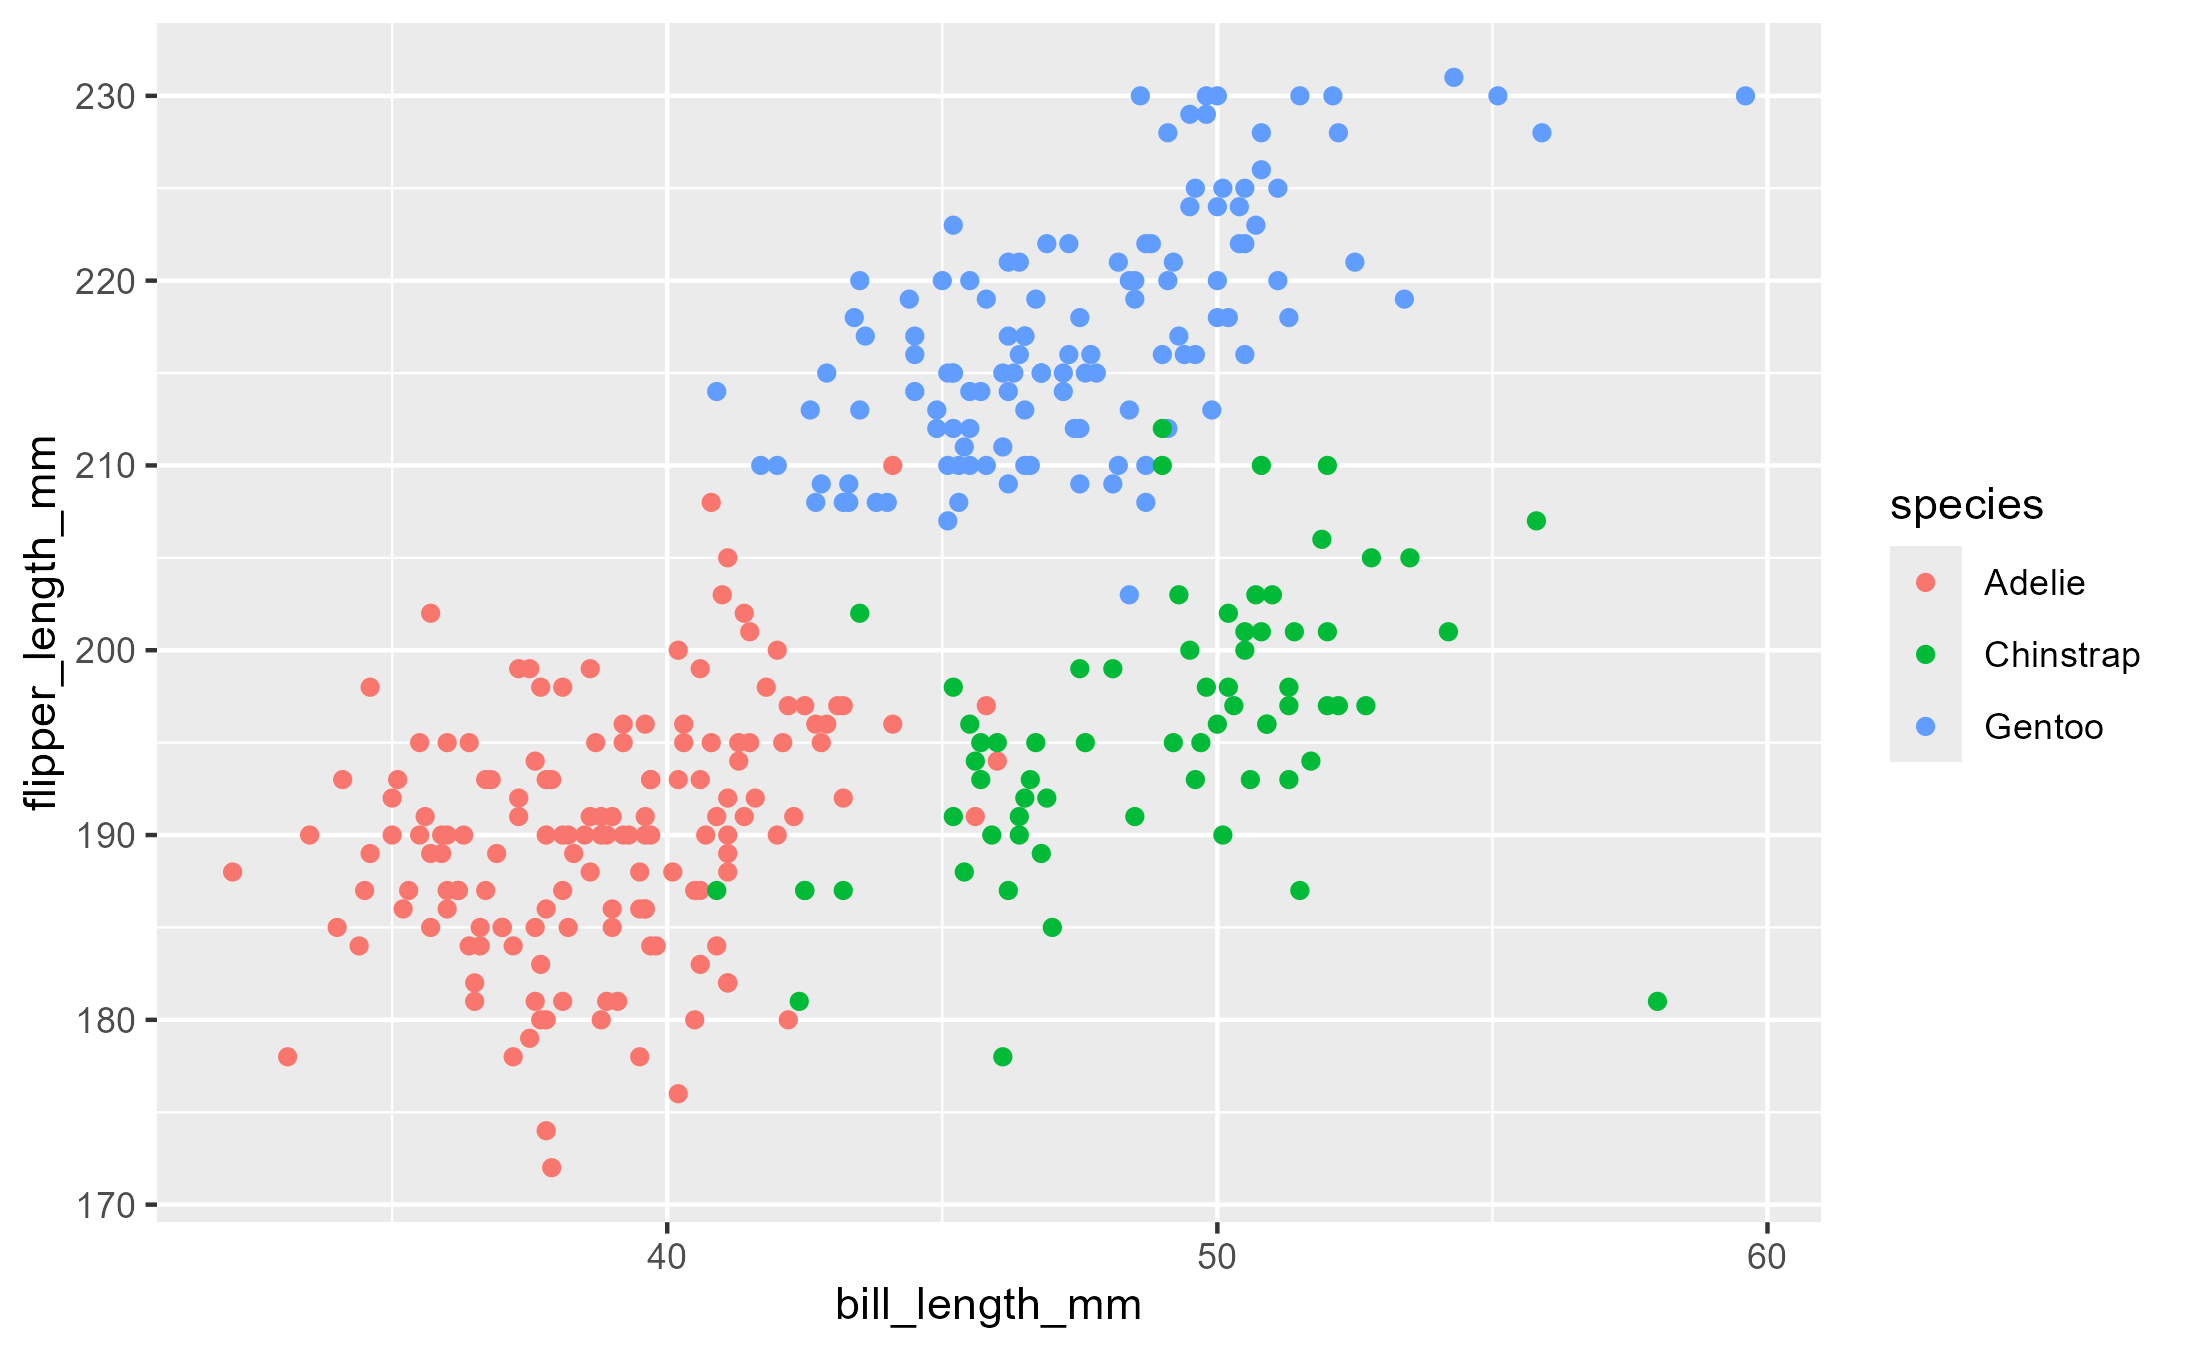
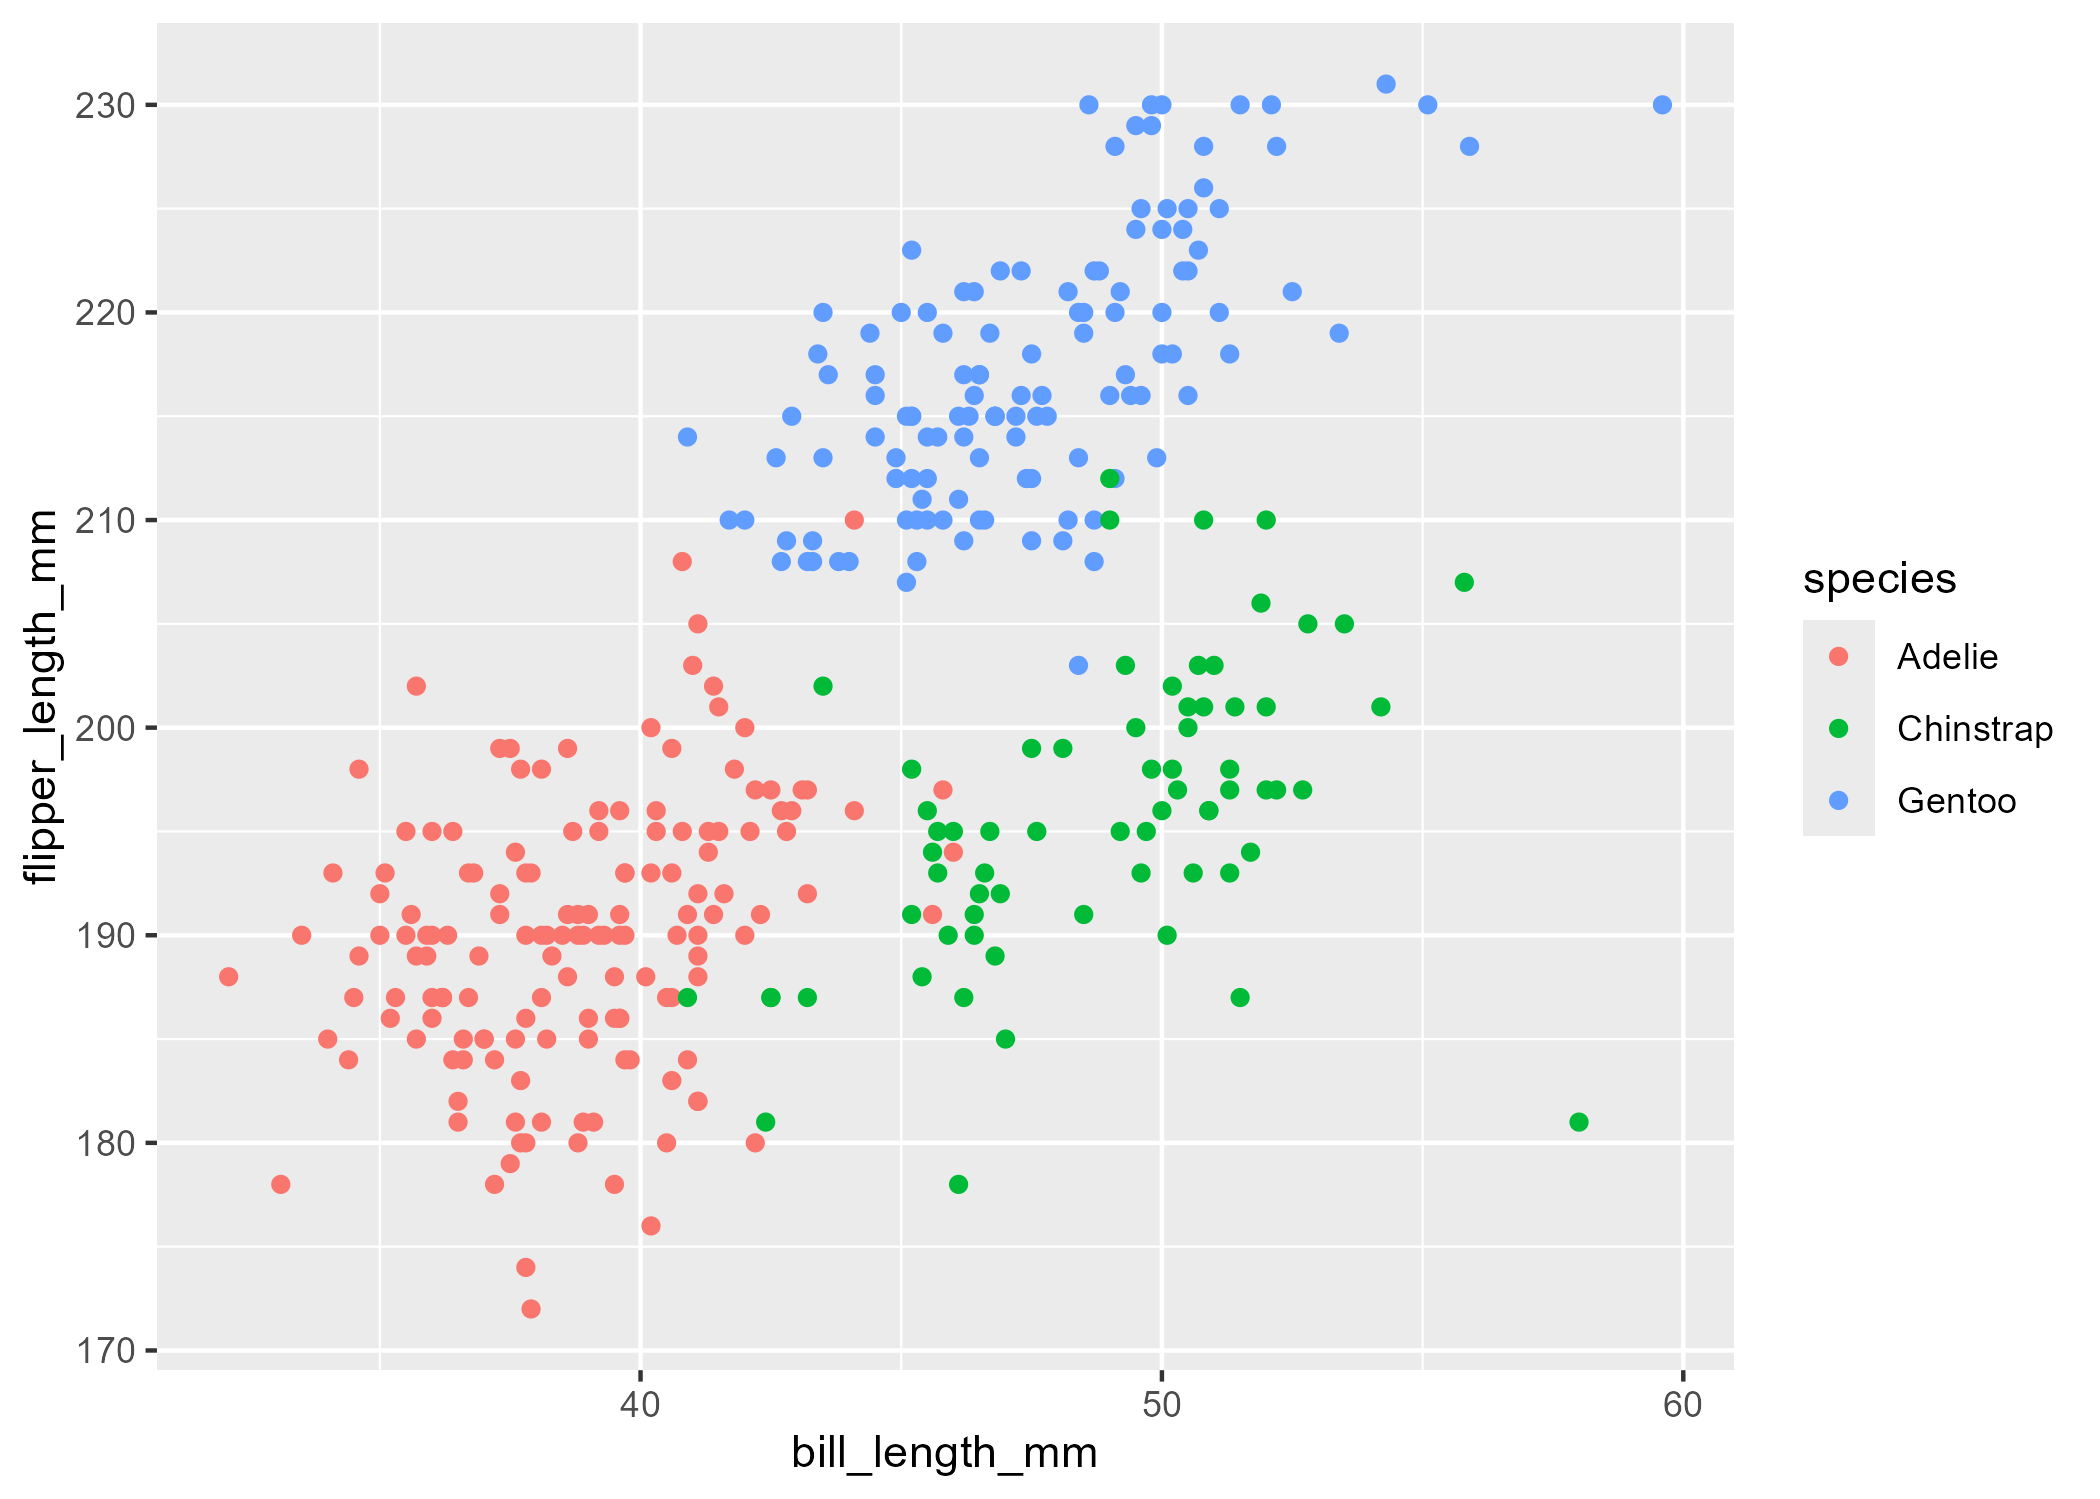
knit to check the output and create a chunk to show data type convert

diff --git a/p8105_hw1_zl3804.md b/p8105_hw1_zl3804.md
@@ -1,9 +1,26 @@
 p8105_hw1_zl3804.Rmd
 ================
-eva/Zhuoxuan Li
+Eva/Zhuoxuan Li
 2026-09-22
 
-Section 0 download dataset from package
+# Section 0
+
+``` r
+library(tidyverse)
+```
+
+    ## ── Attaching core tidyverse packages ──────────────────────── tidyverse 2.0.0 ──
+    ## ✔ dplyr     1.2.1     ✔ readr     2.2.0
+    ## ✔ forcats   1.0.1     ✔ stringr   1.6.0
+    ## ✔ ggplot2   4.0.3     ✔ tibble    3.3.1
+    ## ✔ lubridate 1.9.5     ✔ tidyr     1.3.2
+    ## ✔ purrr     1.2.2     
+    ## ── Conflicts ────────────────────────────────────────── tidyverse_conflicts() ──
+    ## ✖ dplyr::filter() masks stats::filter()
+    ## ✖ dplyr::lag()    masks stats::lag()
+    ## ℹ Use the conflicted package (<http://conflicted.r-lib.org/>) to force all conflicts to become errors
+
+# Section 1 download dataset from package
 
 ``` r
  data("penguins", package = "palmerpenguins")
@@ -14,3 +31,64 @@ dimensions of penguins, introducing us the year, species, island, sex of
 those penguins, and bill_length_mm, bill_depth_mm, flippers_length_mm,
 body_mass_g in relative measures. Among those, mean of their flipper
 length is 200.9152047mm.
+
+# Section 2 Make a scatterplot
+
+``` r
+ggplot(penguins, aes(x= bill_length_mm, y = flipper_length_mm, color = species)) + geom_point()
+```
+
+    ## Warning: Removed 2 rows containing missing values or values outside the scale range
+    ## (`geom_point()`).
+
+![](p8105_hw1_zl3804_files/figure-gfm/unnamed-chunk-3-1.png)<!-- -->
+
+``` r
+ggsave("penguins_scatterplot.png")
+```
+
+    ## Saving 7 x 5 in image
+
+    ## Warning: Removed 2 rows containing missing values or values outside the scale range
+    ## (`geom_point()`).
+
+# Section 3 Create dataframe
+
+``` r
+library(tidyverse)
+
+set.seed(8130)
+
+frame_samp = tibble(
+  normx = rnorm (10),
+  log_normx = normx > 0,
+  character = c ("y", "o", "c", "o", "m", "p", "r", "o", "u", "n"),
+  level = factor(sample(c("high", "medium", "low"), 10, replace = TRUE))
+)  
+
+mean_normx = mean(pull(frame_samp, normx))
+mean_log_normx = mean(pull(frame_samp, log_normx))
+mean_chara = mean(pull(frame_samp, character))
+```
+
+    ## Warning in mean.default(pull(frame_samp, character)): argument is not numeric
+    ## or logical: returning NA
+
+``` r
+mean_level = mean(pull(frame_samp, level))
+```
+
+    ## Warning in mean.default(pull(frame_samp, level)): argument is not numeric or
+    ## logical: returning NA
+
+Show which variable can caculate means and which can’t :
+
+The mean of normal distribution R.V. is -0.6682653
+
+The mean of logic function outcoe is 0.1
+
+The mean of characters is NA
+
+The mean of factor R.V. is NA
+
+# Section 4 Convert variable types
